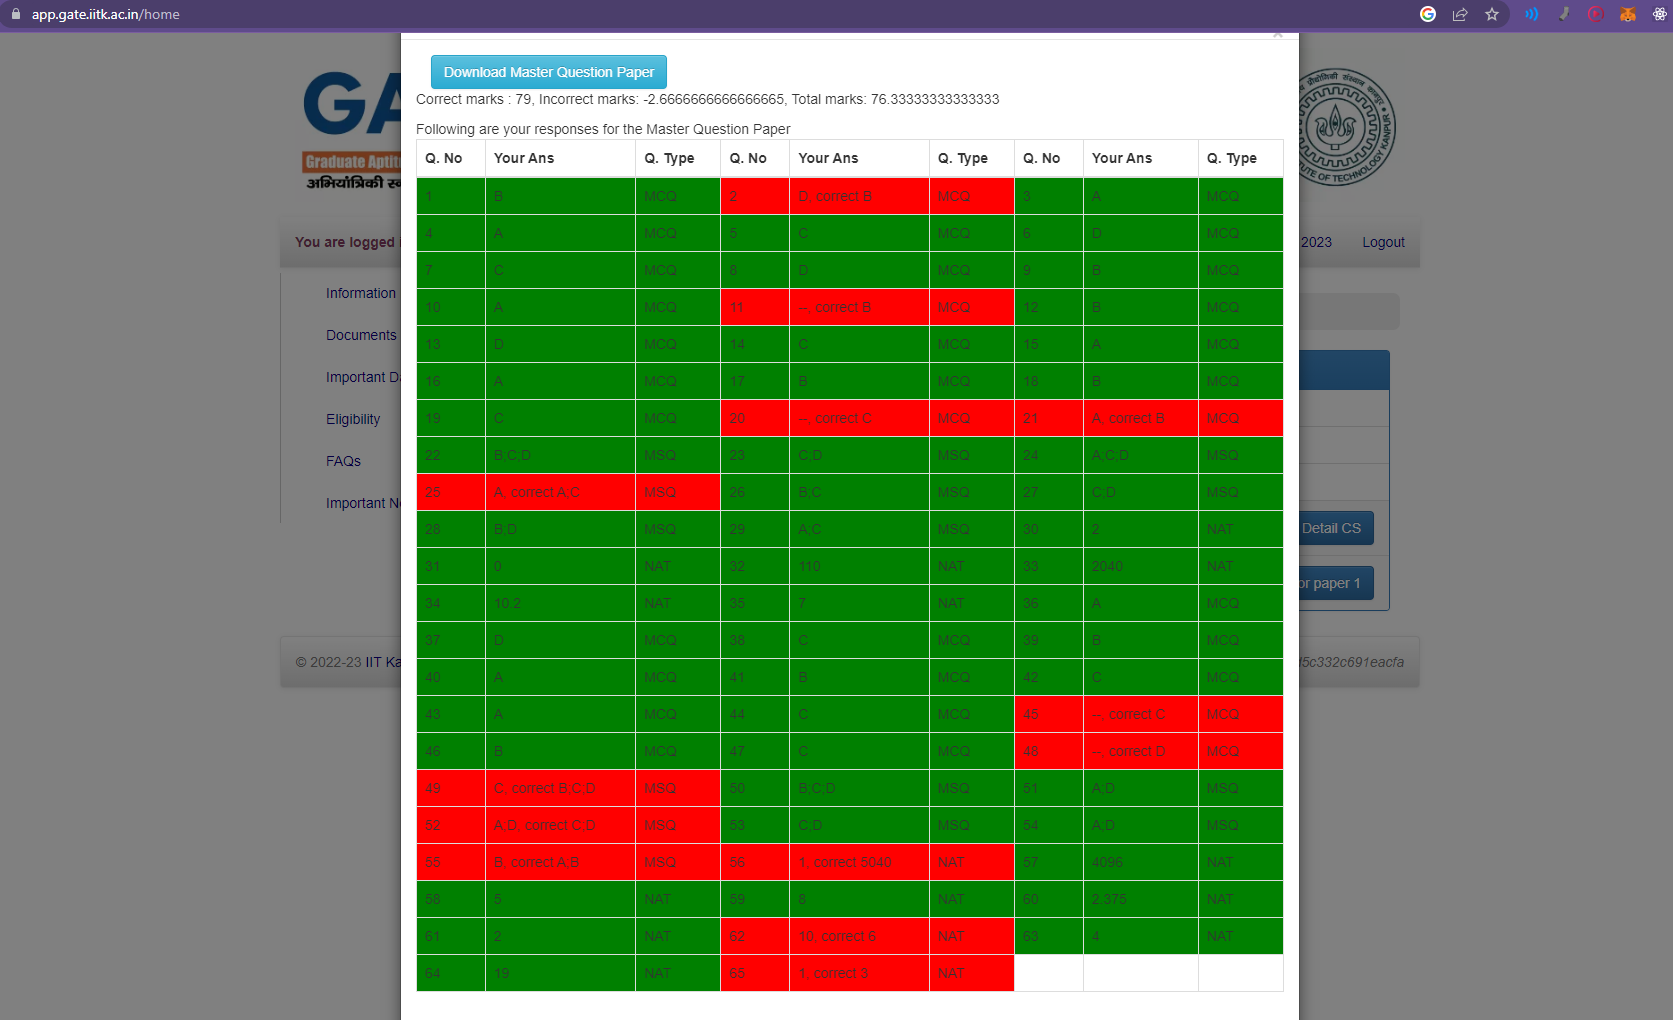
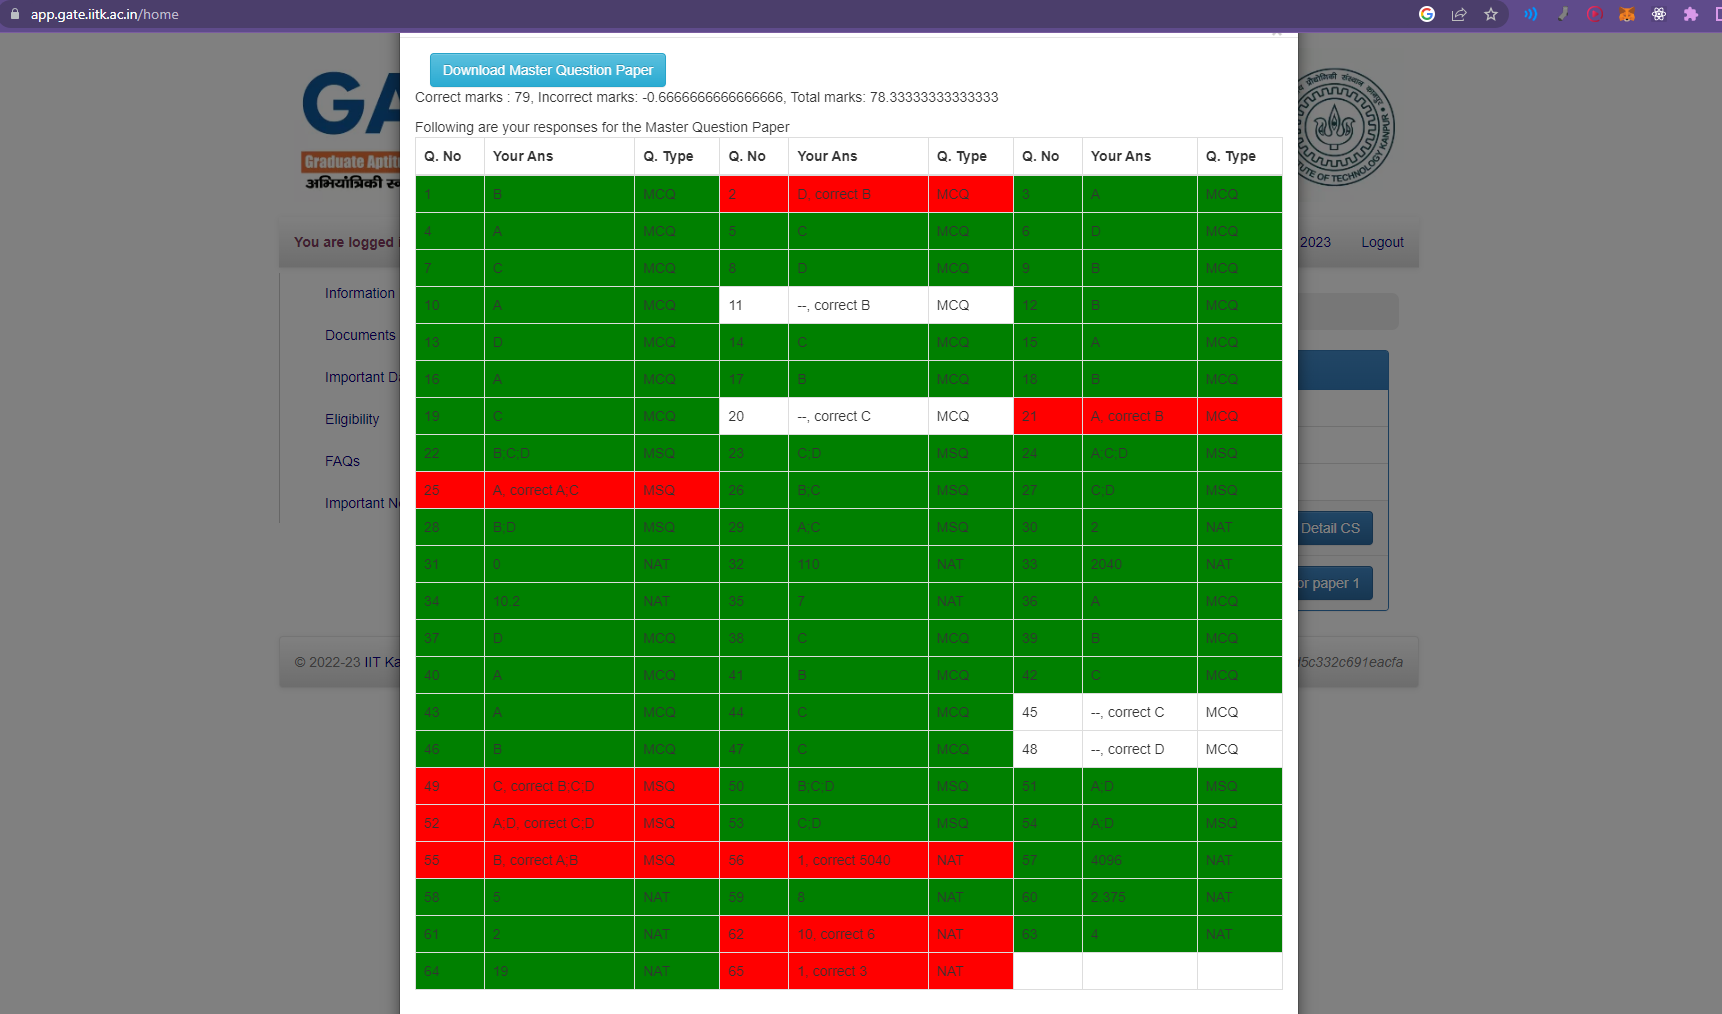
fix unanswered being counted as negative

Changed region(s): [[0.1554, 0.0306, 0.8392, 1.0], [0.8081, 0.0, 1.0, 0.0306], [0.0, 0.0, 0.0932, 0.0306]]

diff --git a/extension/scripts/calculate.js b/extension/scripts/calculate.js
@@ -41,11 +41,12 @@ window.onload = () => {
                 let ans_idx = ans.findIndex(e => e.qNo === ele.qNo);
                 ans[ans_idx].correctAns = ele.correctAns;
                 ans[ans_idx].is_correct = ans[ans_idx].correctAns === ans[ans_idx].yourAns;
+                ans[ans_idx].answered = ans[ans_idx].yourAns !== '--';
 
                 if (ans[ans_idx].is_correct === true) {
                     plus_marks += score(ans[ans_idx].qNo);
                 } else {
-                    if (ans[ans_idx].qType !== 'MSQ' && ans[ans_idx].qType !== 'NAT') {
+                    if (ans[ans_idx].answered && ans[ans_idx].qType !== 'MSQ' && ans[ans_idx].qType !== 'NAT') {
                         minus_marks -= (1/3) * score(ans[ans_idx].qNo);
                     }
                 }
@@ -56,10 +57,11 @@ window.onload = () => {
                 for (let i = 0; i < 3; i++) {
                     let idx = Number(row.childNodes[3*i + 0].innerHTML);
                     if (idx !== 0) {
-                        row.childNodes[3*i + 0].style.background = (ans[idx - 1].is_correct)? 'green' : 'red';
-                        row.childNodes[3*i + 1].style.background = (ans[idx - 1].is_correct)? 'green' : 'red';
-                        row.childNodes[3*i + 2].style.background = (ans[idx - 1].is_correct)? 'green' : 'red';
-
+                        if (ans[idx - 1].answered) {
+                            row.childNodes[3*i + 0].style.background = (ans[idx - 1].is_correct)? 'green' : 'red';
+                            row.childNodes[3*i + 1].style.background = (ans[idx - 1].is_correct)? 'green' : 'red';
+                            row.childNodes[3*i + 2].style.background = (ans[idx - 1].is_correct)? 'green' : 'red';
+                        }
                         if (!ans[idx - 1].is_correct) {
                             row.childNodes[3*i + 1].innerHTML += `, correct ${ans[idx - 1].correctAns}`;
                         }
